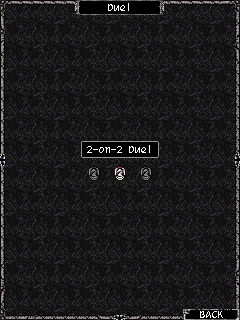
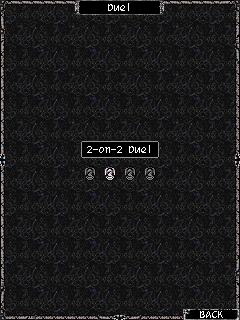
MP orders: 2-on-2 Order in the Duel menu and Order Ally in the Mission menu
Both open the order as a pick list; FIRE on a member invites them at once.

Claude-Session: https://claude.ai/code/session_01Pra1epgAaSGGotKkAjmf4H

Changed region(s): [[0.35, 0.5, 0.6417, 0.5625]]

diff --git a/pyport/pow_mp/mp_canvas_order.py b/pyport/pow_mp/mp_canvas_order.py
@@ -1,6 +1,8 @@
 """PORT-EXTRA (asked by Andrey, plan item 22): the Order window of the online game.
 
-Not in the original jar. A seventh picture of the main menu carousel opens it. An order is a
+Not in the original jar. A seventh picture of the main menu carousel opens it; "2-on-2 Order"
+in the Duel menu and "Order Ally" in the Mission menu open it as a pick list, where FIRE on a
+member invites them at once (2-on-2 Together / Mission Together). An order is a
 name and up to 30 players (pow_server/orders.py); the window shows who is in it and who is
 online, and invites a member to a mission (768 mode 2, the jar's Invite An Ally) or to a
 2-on-2 duel on my side (768 mode 3). Nothing of it reaches the single player.
@@ -28,6 +30,8 @@ ROW_H = 17
 
 TEXTS = ["Order", "Create Order", "Join Order", "Leave Order", "Mission Together",
          "2-on-2 Together", "Leave the order?", "Online"]
+DUEL_ITEM, MISSION_ITEM = "2-on-2 Order", "Order Ally"   # the 4th Duel / 3rd Mission menu item
+PICK_TITLES = {2: MISSION_ITEM, 3: DUEL_ITEM}
 PROMPTS = (["Enter the name", "of your new order.", "(4-12 letters)"],
            ["Enter the name", "of the order", "you wish to join.", "(4-12 letters)"])
 # error_msg 19.. (Consts.error_lines / error_line_counts are extended by install())
@@ -41,6 +45,9 @@ STATUS_ERRORS = {-6: 6, -49: 5, -20: ERR_FIRST, -21: ERR_FIRST + 1, -22: ERR_FIR
 
 def install():
     """Adds the texts the window needs to the jar's tables (once per run)."""
+    if DUEL_ITEM not in Consts.duel_menu:
+        Consts.duel_menu.append(DUEL_ITEM)
+        Consts.mission_menu.append(MISSION_ITEM)
     if len(Consts.error_line_counts) == ERR_FIRST:
         for lines in ERRORS:
             Consts.error_lines.extend(lines)
@@ -55,11 +62,14 @@ class OrderMixin:
     order_creating = True       # 32: create (True) or join (False)
     order_invite = False        # the battle came from the window: back to it afterwards
     order_count = 0
+    order_pick = 0              # opened from Duel (3) / Mission (2): FIRE on a member invites
 
     # --- requests ------------------------------------------------------------------
-    def open_order(self):
-        """Asks the server for my order; the answer (1793) shows the window."""
+    def open_order(self, pick=0):
+        """Asks the server for my order; the answer (1793) shows the window. pick: 768 mode a
+        member is invited with at once (2 mission, 3 2-on-2 together), 0 = the member menu."""
         install()
+        MpCanvas.order_pick = pick
         MpCanvas.loading_msg = 1
         MpCanvas.set_state(3)
         self.send_request(1792)
@@ -120,7 +130,7 @@ class OrderMixin:
             return self._paint_order_menu()
         if MpCanvas.state_ticks < 2:
             MpCanvas.state_ticks = 2
-            MpCanvas.title = TEXTS[0]
+            MpCanvas.title = PICK_TITLES.get(MpCanvas.order_pick, TEXTS[0])
             self.draw_window_bg(MpCanvas.buffer_g)
             x, top = MpCanvas.center_x - 75, MpCanvas.center_y - 100
             MpCanvas.draw_panel(MpCanvas.buffer_g, x, top, 150, 15)
@@ -261,6 +271,16 @@ class OrderMixin:
     def _keys_order_leave(self, key):  # state 33
         self.yes_no_keys(MpCanvas.key_in)
 
+    def invite_member(self, mode):
+        """768 to the member under the cursor. From the window the battle goes back to it; from
+        the Duel / Mission menu item it goes back to that menu, like the jar's own modes."""
+        MpCanvas.room_mode = mode
+        MpCanvas.input_text = MpCanvas.order_rows[MpCanvas.order_cursor][0]
+        MpCanvas.order_invite = not MpCanvas.order_pick
+        MpCanvas.loading_msg = 4
+        MpCanvas.set_state(3)
+        self.send_request(768)
+
     def order_select(self):
         """FIRE on the window's states (from menu_select)."""
         cur = MpCanvas.cursor_stack[MpCanvas.stack_depth]
@@ -270,15 +290,14 @@ class OrderMixin:
         elif MpCanvas.state == ORDER:
             if MpCanvas.order_cursor == MpCanvas.order_count:
                 self.push_state(LEAVE)
-            elif MpCanvas.order_rows[MpCanvas.order_cursor][0] != MpCanvas.user_id:
-                self.push_state(MEMBER)        # not me
+            elif MpCanvas.order_rows[MpCanvas.order_cursor][0] == MpCanvas.user_id:
+                pass                           # not myself
+            elif MpCanvas.order_pick:
+                self.invite_member(MpCanvas.order_pick)
+            else:
+                self.push_state(MEMBER)
         elif MpCanvas.state == MEMBER:
-            MpCanvas.room_mode = 2 if cur == 0 else 3
-            MpCanvas.input_text = MpCanvas.order_rows[MpCanvas.order_cursor][0]
-            MpCanvas.order_invite = True
-            MpCanvas.loading_msg = 4
-            MpCanvas.set_state(3)
-            self.send_request(768)
+            self.invite_member(2 if cur == 0 else 3)
         elif MpCanvas.state == LEAVE:
             if cur == 0:
                 MpCanvas.loading_msg = 5

diff --git a/pyport/pow_mp/mp_canvas.py b/pyport/pow_mp/mp_canvas.py
@@ -892,7 +892,8 @@ class MpCanvas(DrawMixin, BattleMixin, NetMixin, InputMixin, ScreensMixin, Asset
         if MpCanvas.state_ticks < 2:
             MpCanvas.state_ticks = 2
             MpCanvas.title = Consts.main_menu[0]
-            MpCanvas.menu_size = 3
+            mp_canvas_order.install()
+            MpCanvas.menu_size = len(Consts.duel_menu)   # PORT-EXTRA: + 2-on-2 Order
             self.draw_menu_icons()
         Draw.draw_image(MpCanvas.screen_g, MpCanvas.buffer, 0, 0, 0)
         self.draw_button(MpCanvas.screen_g, Consts.duel_menu[MpCanvas.cursor_stack[MpCanvas.stack_depth]], (MpCanvas.center_x - 39), (MpCanvas.center_y - 19), 78, 17, False, True)
@@ -903,7 +904,8 @@ class MpCanvas(DrawMixin, BattleMixin, NetMixin, InputMixin, ScreensMixin, Asset
         if MpCanvas.state_ticks < 2:
             MpCanvas.state_ticks = 2
             MpCanvas.title = Consts.main_menu[1]
-            MpCanvas.menu_size = 2
+            mp_canvas_order.install()
+            MpCanvas.menu_size = len(Consts.mission_menu)   # PORT-EXTRA: + Order Ally
             self.draw_menu_icons()
         self.draw_buffer()
         self.draw_button(MpCanvas.screen_g, Consts.mission_menu[MpCanvas.cursor_stack[MpCanvas.stack_depth]], (MpCanvas.center_x - 45), (MpCanvas.center_y - 19), 90, 17, False, True)

diff --git a/pyport/pow_mp/mp_canvas_input.py b/pyport/pow_mp/mp_canvas_input.py
@@ -631,7 +631,8 @@ class InputMixin:
             elif MpCanvas.cursor_stack[MpCanvas.stack_depth] == 2:
                 self.push_state(20)
             elif MpCanvas.cursor_stack[MpCanvas.stack_depth] == 3:
-                self.push_state(87)
+                # PORT-EXTRA: 2-on-2 Order (the jar's dead branch pushed Help here, menu_size 3)
+                self.open_order(pick=3)
             elif MpCanvas.cursor_stack[MpCanvas.stack_depth] == 4:
                 self.push_state(161)
         elif MpCanvas.state == 12:
@@ -644,7 +645,8 @@ class InputMixin:
                 MpCanvas.room_mode = i8(2)
                 self.push_state(21)
             elif MpCanvas.cursor_stack[MpCanvas.stack_depth] == 2:
-                self.push_state(87)
+                # PORT-EXTRA: Order Ally (the jar's dead branch pushed Help here, menu_size 2)
+                self.open_order(pick=2)
             elif MpCanvas.cursor_stack[MpCanvas.stack_depth] == 3:
                 self.push_state(161)
         elif MpCanvas.state == 16:

diff --git a/pyport/tests/test_mp_client.py b/pyport/tests/test_mp_client.py
@@ -18,7 +18,8 @@ def _mp_shot():
 
 @pytest.mark.parametrize("name", ["mp_login", "mp_menu", "mp_character", "mp_ranking", "mp_options",
                                   "mp_duel", "mp_duel2", "mp_mission",
-                                  "mp_challenge", "mp_invited", "mp_order_mission"])
+                                  "mp_challenge", "mp_invited", "mp_order_mission",
+                                  "mp_order_menus"])
 def test_scenario_runs(name, tmp_path):
     mp_shot = _mp_shot()
     saved, frames = mp_shot.run(mp_shot.parse(SCEN / (name + ".keys")), tmp_path / "out",
